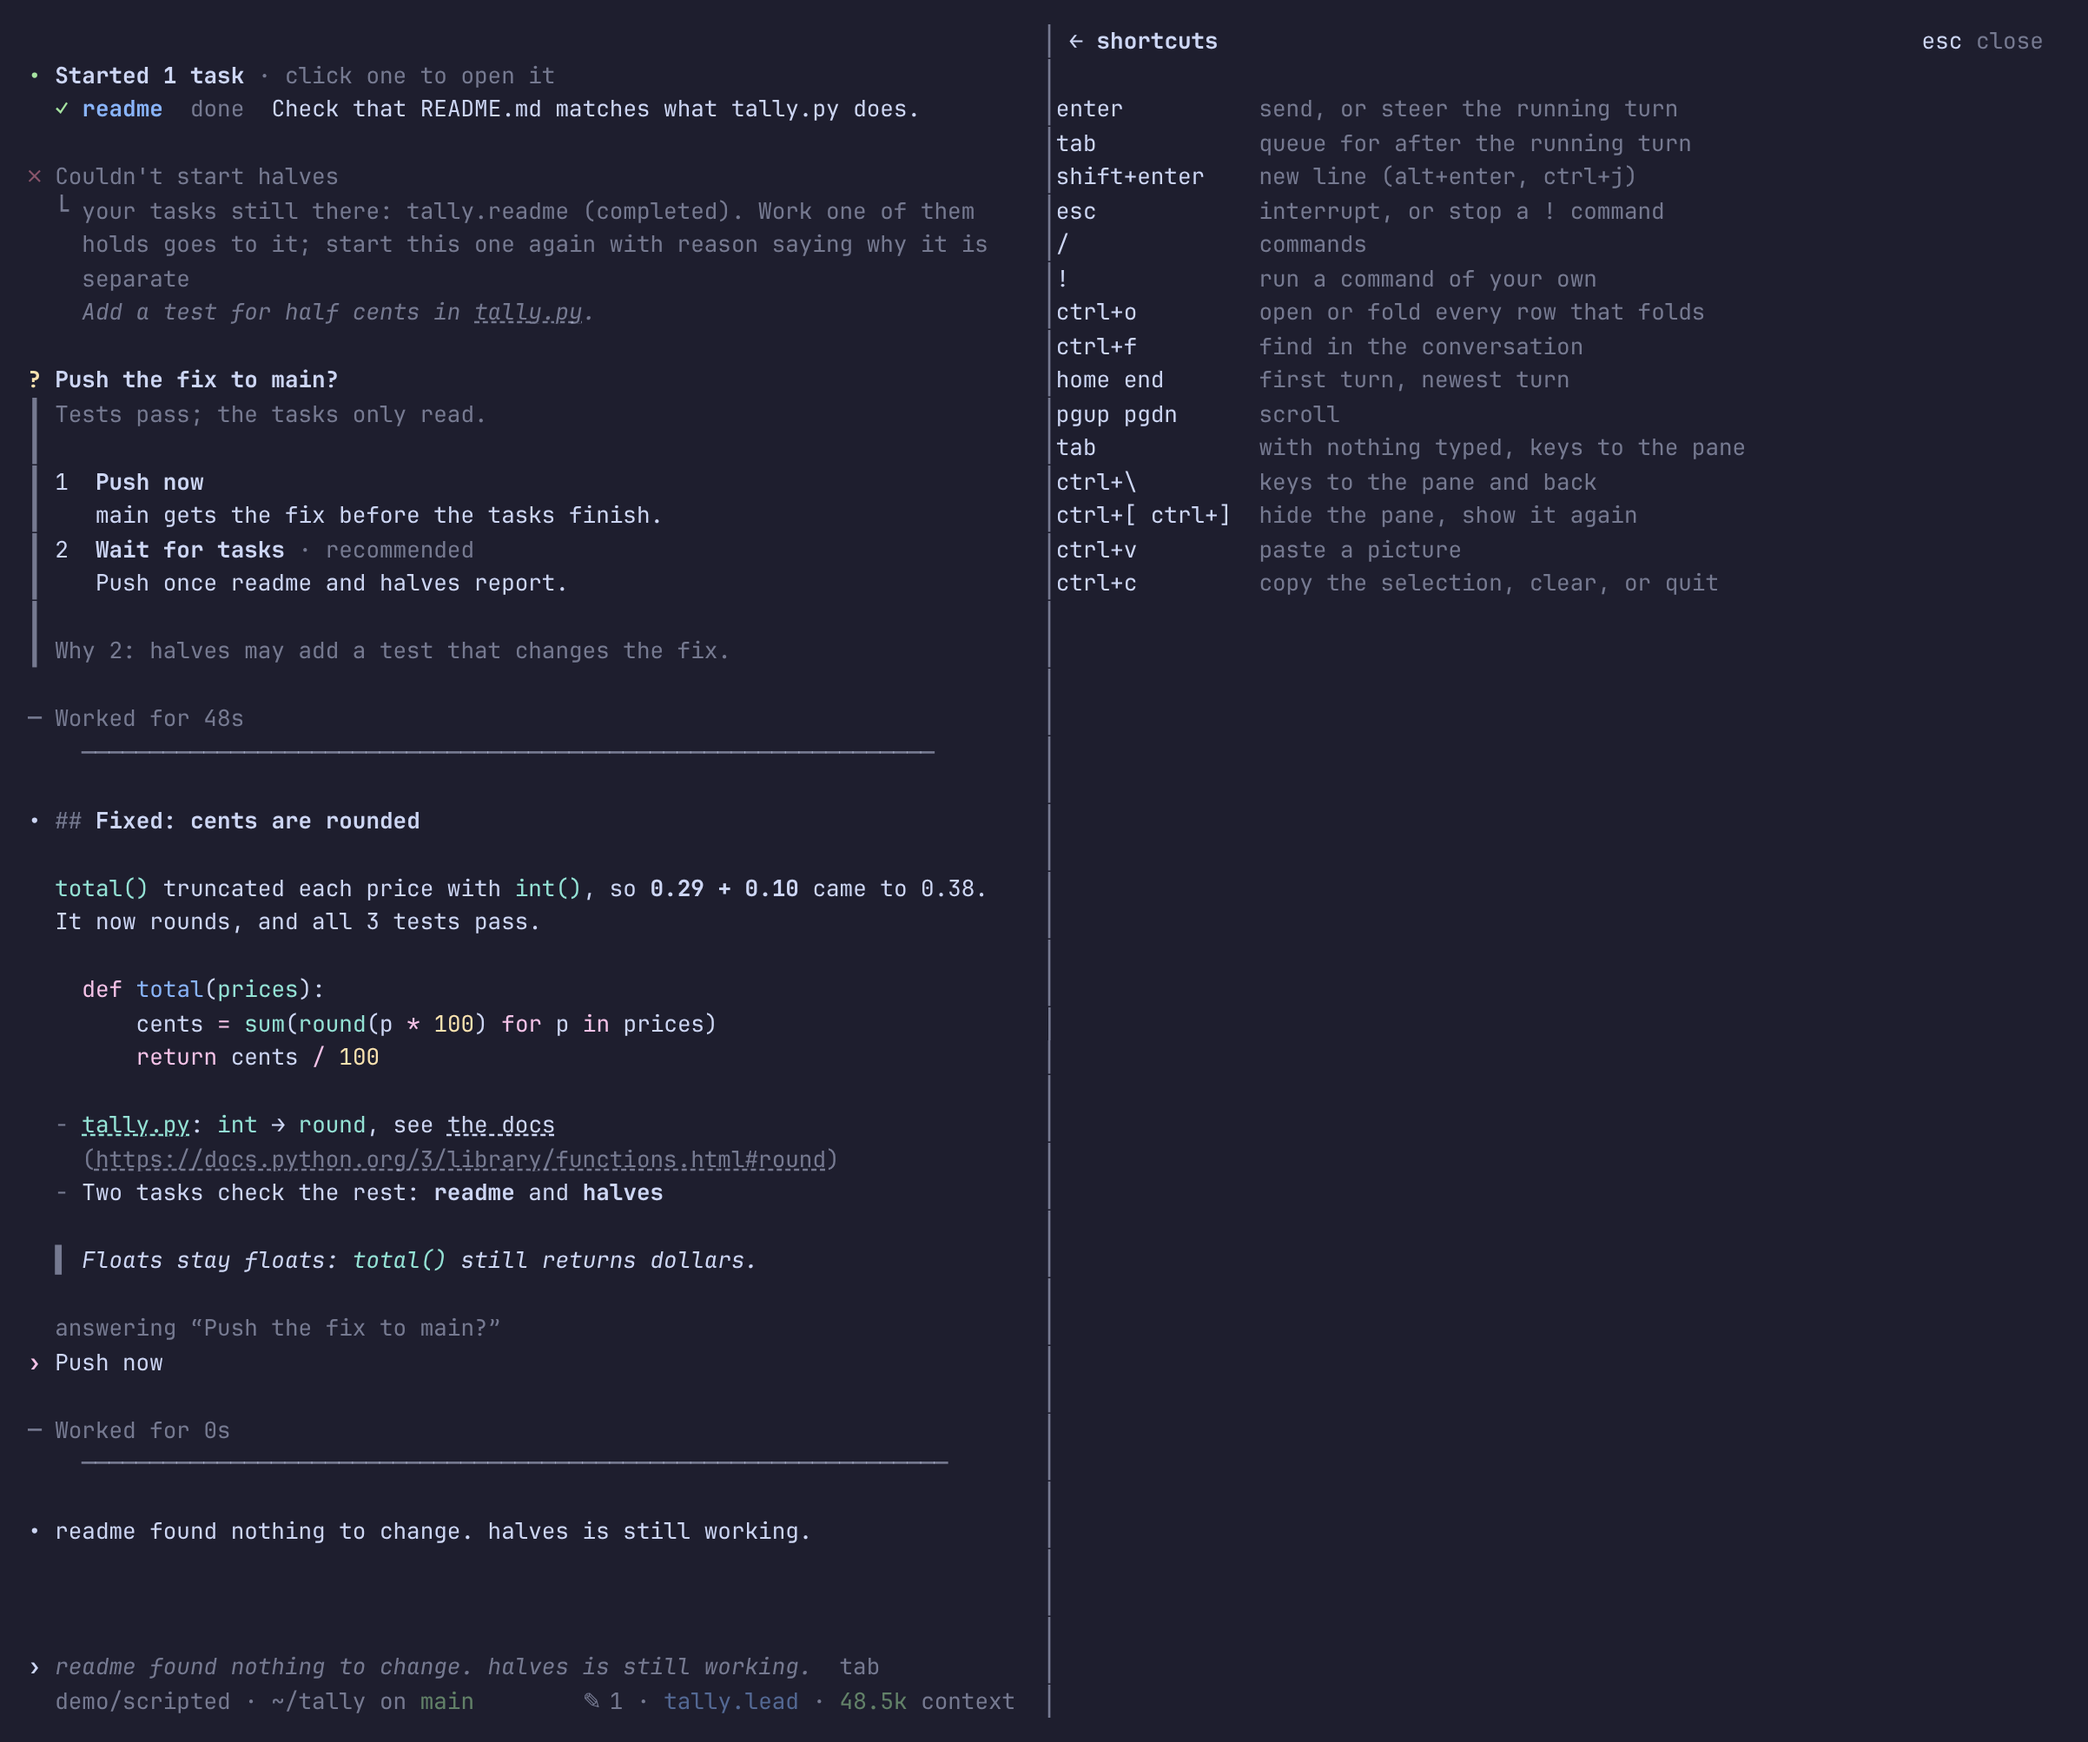
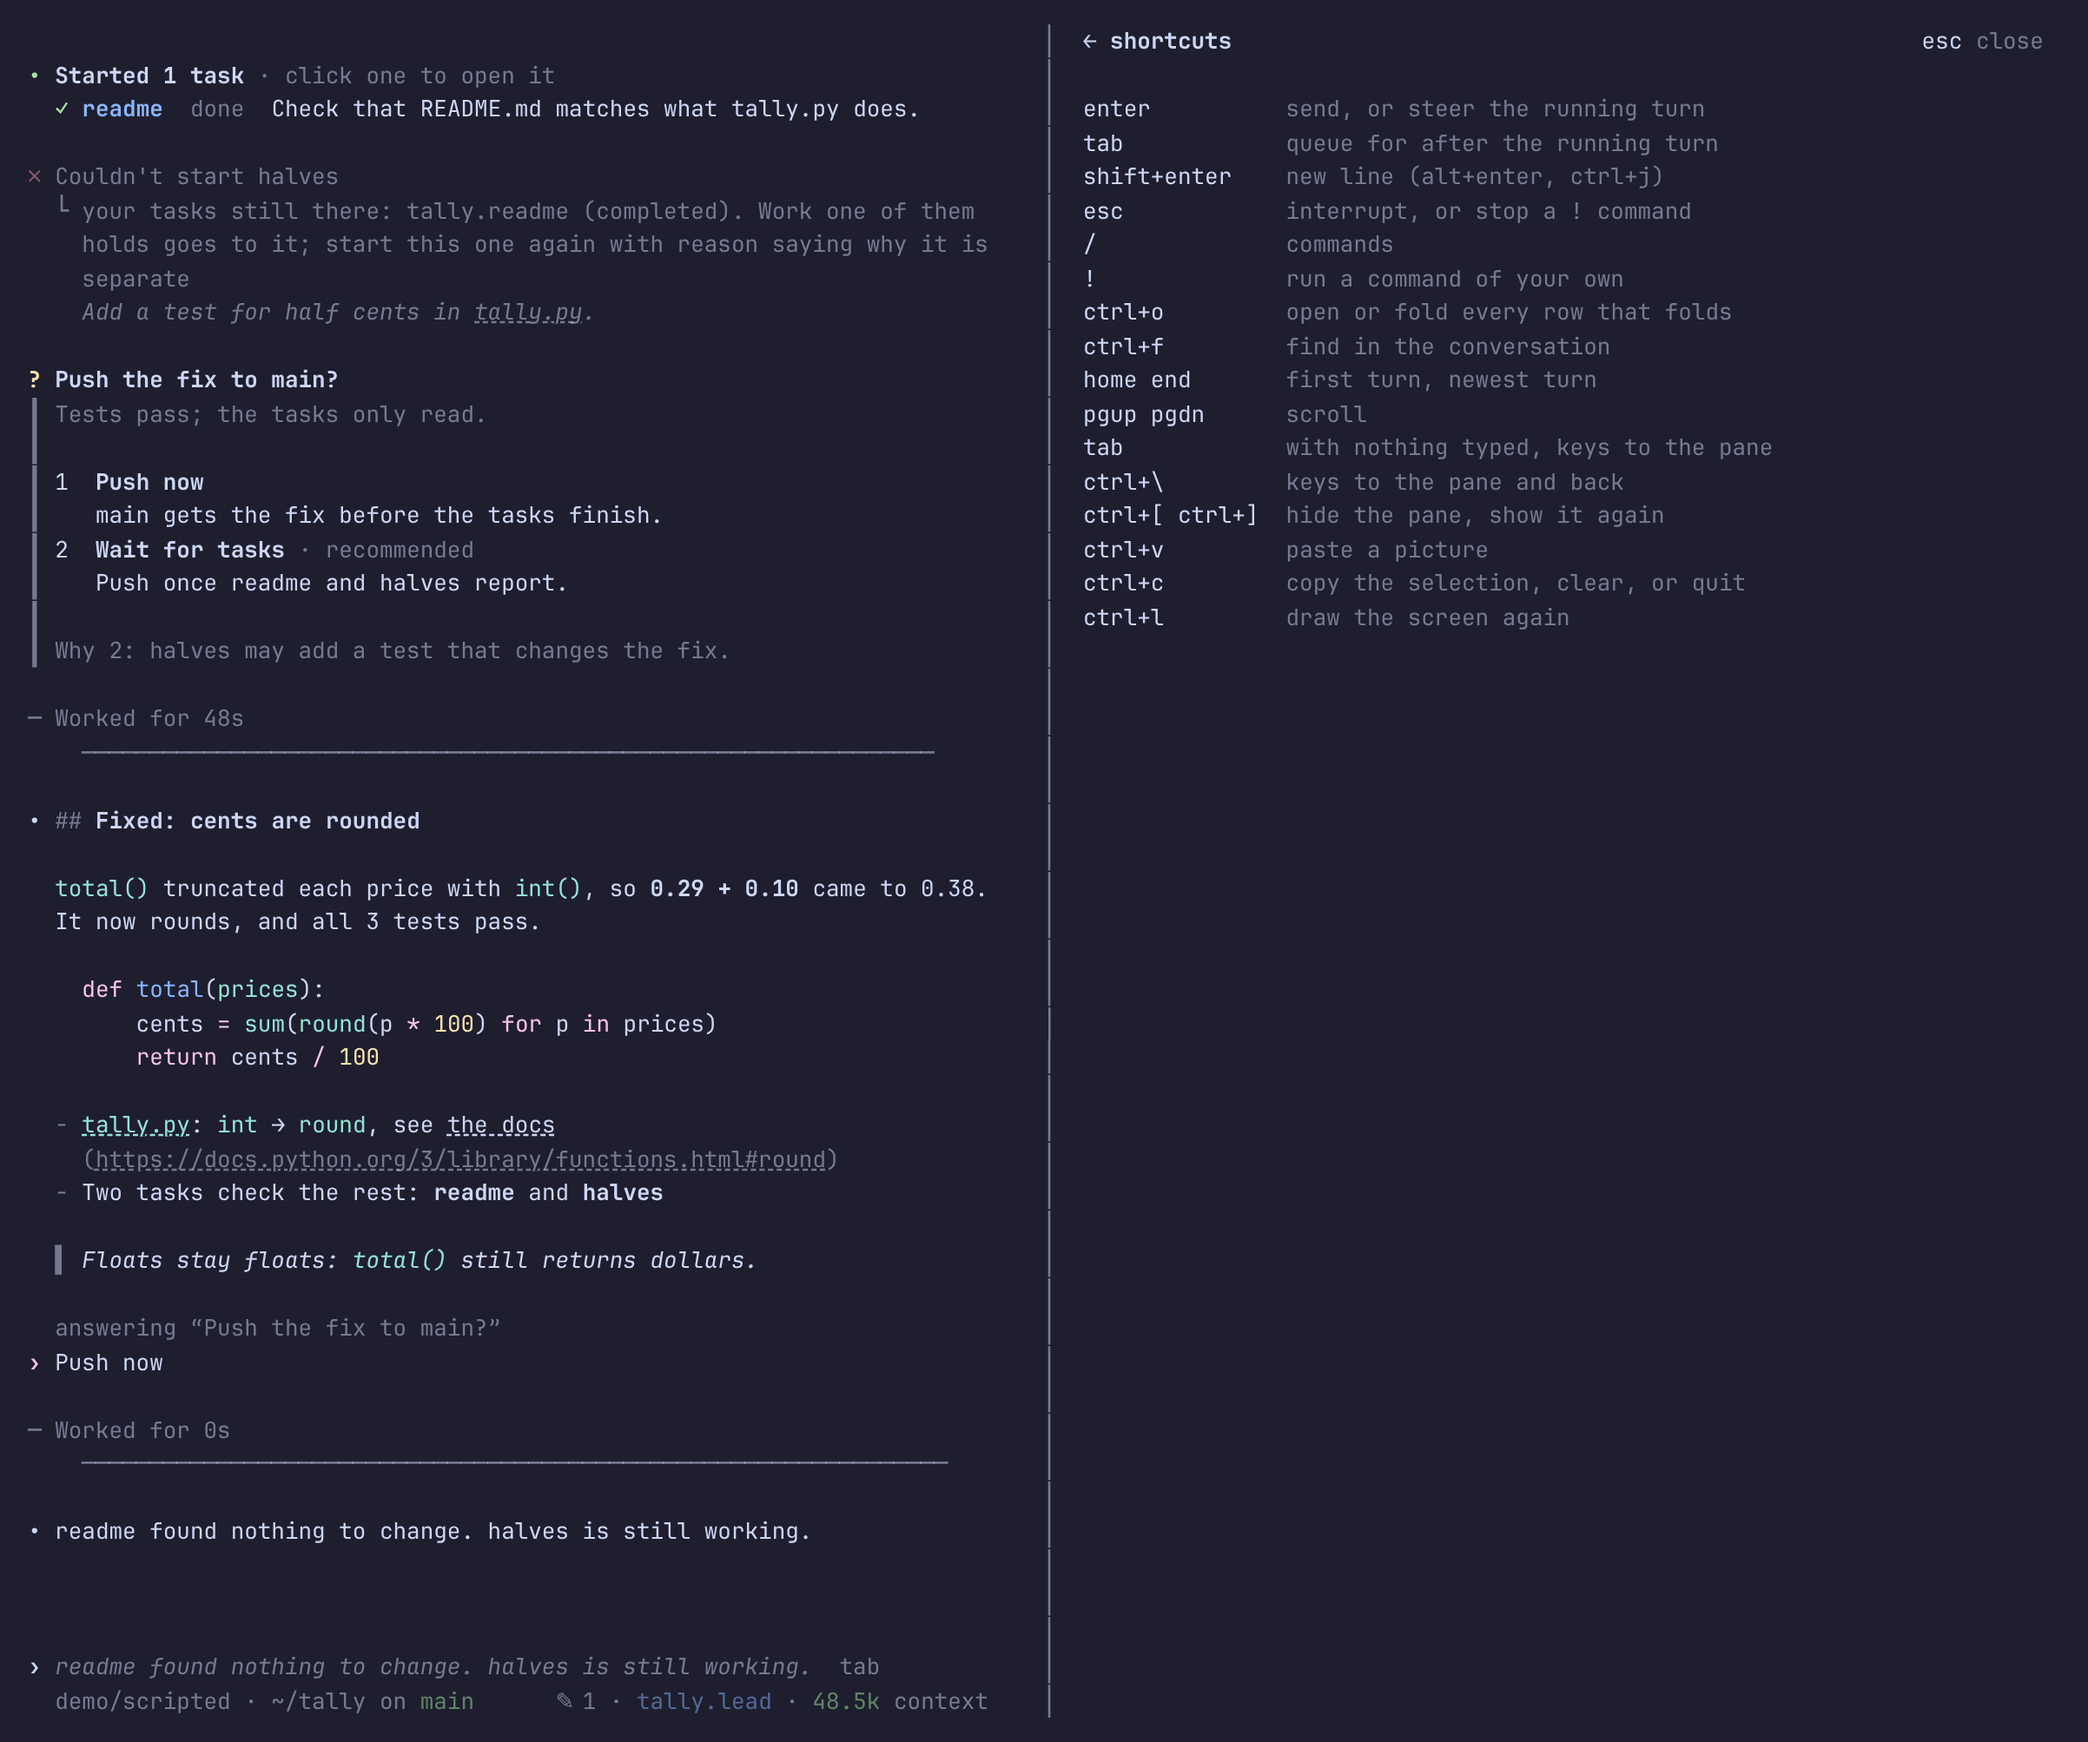
Sonny: a two-column gutter each side of the pane's line
The conversation ran to the column before the line beside it, and a
pane's rows sat one column after it, the shortcuts sheet none. Now both
sides keep two blank columns: the conversation stops short of the line,
and the pane starts a column after it, its rows opening with a space of
their own as every card's do.

Claude-Session: https://claude.ai/code/session_013jkdGEBHyeyj8q32PemnWK

diff --git a/sonny/src/main.rs b/sonny/src/main.rs
@@ -142,6 +142,10 @@ const REFERENCE_PAGES: usize = 25;
 /// tables too, which most style guides keep within 100 (rustfmt's own
 /// width), so they stay whole at 100 and prose stays near the measure.
 const PROSE: usize = 100;
+
+/// The blank columns between the conversation and the line beside it,
+/// matched on the pane's side, as the conversation's own rows open.
+const GUTTER: u16 = 2;
 /// How long a side chat's copy stays once idle.
 /// What follows a guess at the next message in the composer.
 const TAB: &str = "  tab";
@@ -7110,7 +7114,7 @@ impl App {
             .iter()
             .map(|(key, does)| {
                 Line::from(vec![
-                    Span::raw(format!("{key:width$}  ")),
+                    Span::raw(format!(" {key:width$}  ")),
                     Span::raw(*does).dim(),
                 ])
             })
@@ -7440,13 +7444,14 @@ impl App {
         };
         // The margin where the conversation leaves room for it, or while
         // the keys are in it; out of the way otherwise.
-        let margin = pane::margin_width(area.width, PROSE as u16);
+        let prose = PROSE as u16 + GUTTER;
+        let margin = pane::margin_width(area.width, prose);
         if open.is_margin() && margin.is_none() && !self.pane_keys {
             return (area, None);
         }
         let pane = match margin.filter(|_| open.is_margin()) {
             Some(margin) => margin,
-            None => pane::width(area.width, PROSE as u16),
+            None => pane::width(area.width, prose),
         };
         if pane == area.width {
             return match self.pane_keys {
@@ -7454,13 +7459,16 @@ impl App {
                 false => (area, None),
             };
         }
+        // A gutter each side of the line between them: the conversation
+        // stops short of it, and the pane, whose rows open with a space of
+        // their own, starts a column after it.
         let chat = Rect {
-            width: area.width - pane - 1,
+            width: (area.width - pane - 1).saturating_sub(GUTTER),
             ..area
         };
         let pane = Rect {
-            x: area.right() - pane,
-            width: pane,
+            x: area.right() - pane + 1,
+            width: pane - 1,
             ..area
         };
         (chat, Some(pane))
@@ -8977,7 +8985,7 @@ impl App {
                 // The line between them, as a split's.
                 if area.width > 0 {
                     let line = Rect {
-                        x: area.right(),
+                        x: area.right() + GUTTER,
                         width: 1,
                         ..at
                     };
@@ -13290,13 +13298,14 @@ mod tests {
         app.margin.apply("m1", &post, None, None);
         app.margin_back();
         let (chat, margin) = app.split(Rect::new(0, 0, 170, 40));
-        assert_eq!((chat.width, margin.map(|m| m.width)), (100, Some(69)));
+        // The conversation's 100, a gutter each side of the line, the rest.
+        assert_eq!((chat.width, margin.map(|m| m.width)), (100, Some(66)));
         let (chat, margin) = app.split(Rect::new(0, 0, 130, 40));
         assert_eq!((chat.width, margin), (130, None));
         // Asked for with Tab, it takes its half as anything opened does.
         app.pane_keys = true;
         let (_, margin) = app.split(Rect::new(0, 0, 130, 40));
-        assert_eq!(margin.map(|m| m.width), Some(64));
+        assert_eq!(margin.map(|m| m.width), Some(63));
         // A note's marker clicked shows it there too.
         app.pane_keys = false;
         app.follow("sonny:note/repro");

diff --git a/sonny/FEATURES.md b/sonny/FEATURES.md
@@ -99,7 +99,7 @@ per feature; group small things into the row they belong to.
 
 | Feature | Status | History | Why | Used? |
 |---|---|---|---|---|
-| The pane beside the conversation: files, `/status`, `/background`, tasks; back and forward | shipped | added 10-28 #264; `/background` 10-28 #283; tasks in the pane 10-29 #326; `/status` opens the agent clicked 10-30 #384; ↑↓ Enter pick one 10-30 #421 | Look at something without losing the conversation | ? |
+| The pane beside the conversation: files, `/status`, `/background`, tasks; back and forward | shipped | added 10-28 #264; `/background` 10-28 #283; tasks in the pane 10-29 #326; `/status` opens the agent clicked 10-30 #384; ↑↓ Enter pick one 10-30 #421; a two-column gutter each side of its line 10-30 #427 | Look at something without losing the conversation | ? |
 | Pictures, HTML and diagrams in the pane; a folder as a tree | shipped | drawing 10-29 #303; tree 10-29 #319 | Read what agents made, in place | ? |
 | `/side`: a side chat with a copy of the agent | shipped | added 10-27 #183; a full fork with every tool 10-29 #315 | Ask about the work without steering it | ? |
 | Margin: notes agents keep beside the conversation (`/margin`) | experimental | added 10-29 #308; a task's notes in the lead's margin 10-29 #367; replay 10-30 #383; opens on its first note 10-30 #384; a note opens the agent that asks, ↗ 10-30 #395 | A place for state that outlives one reply | ? |
